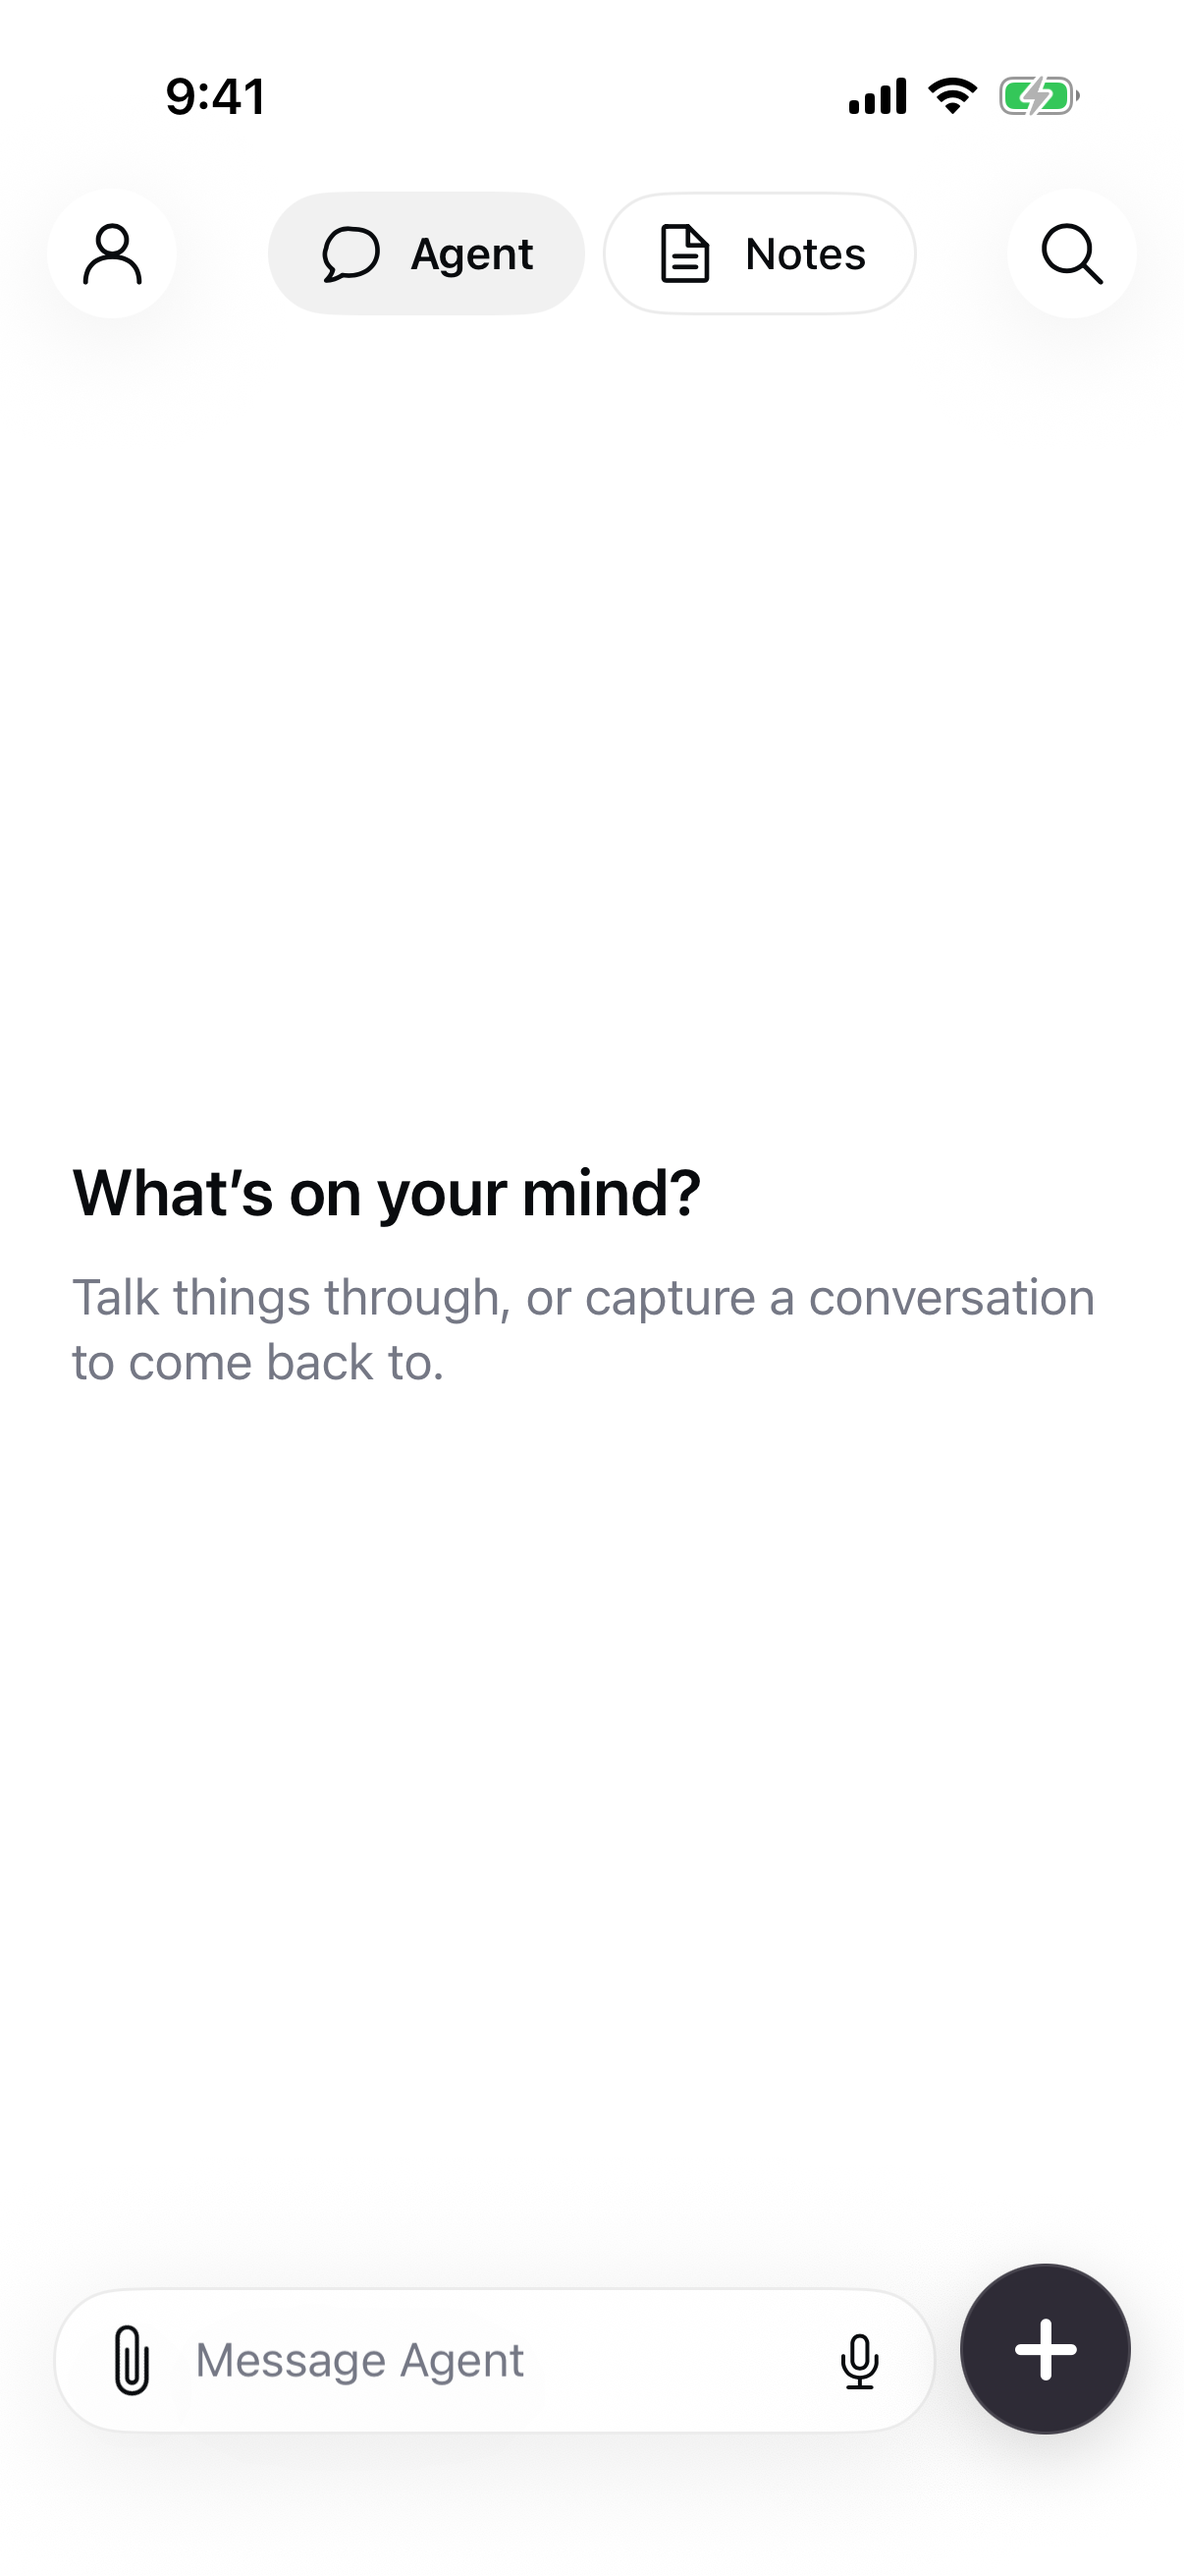
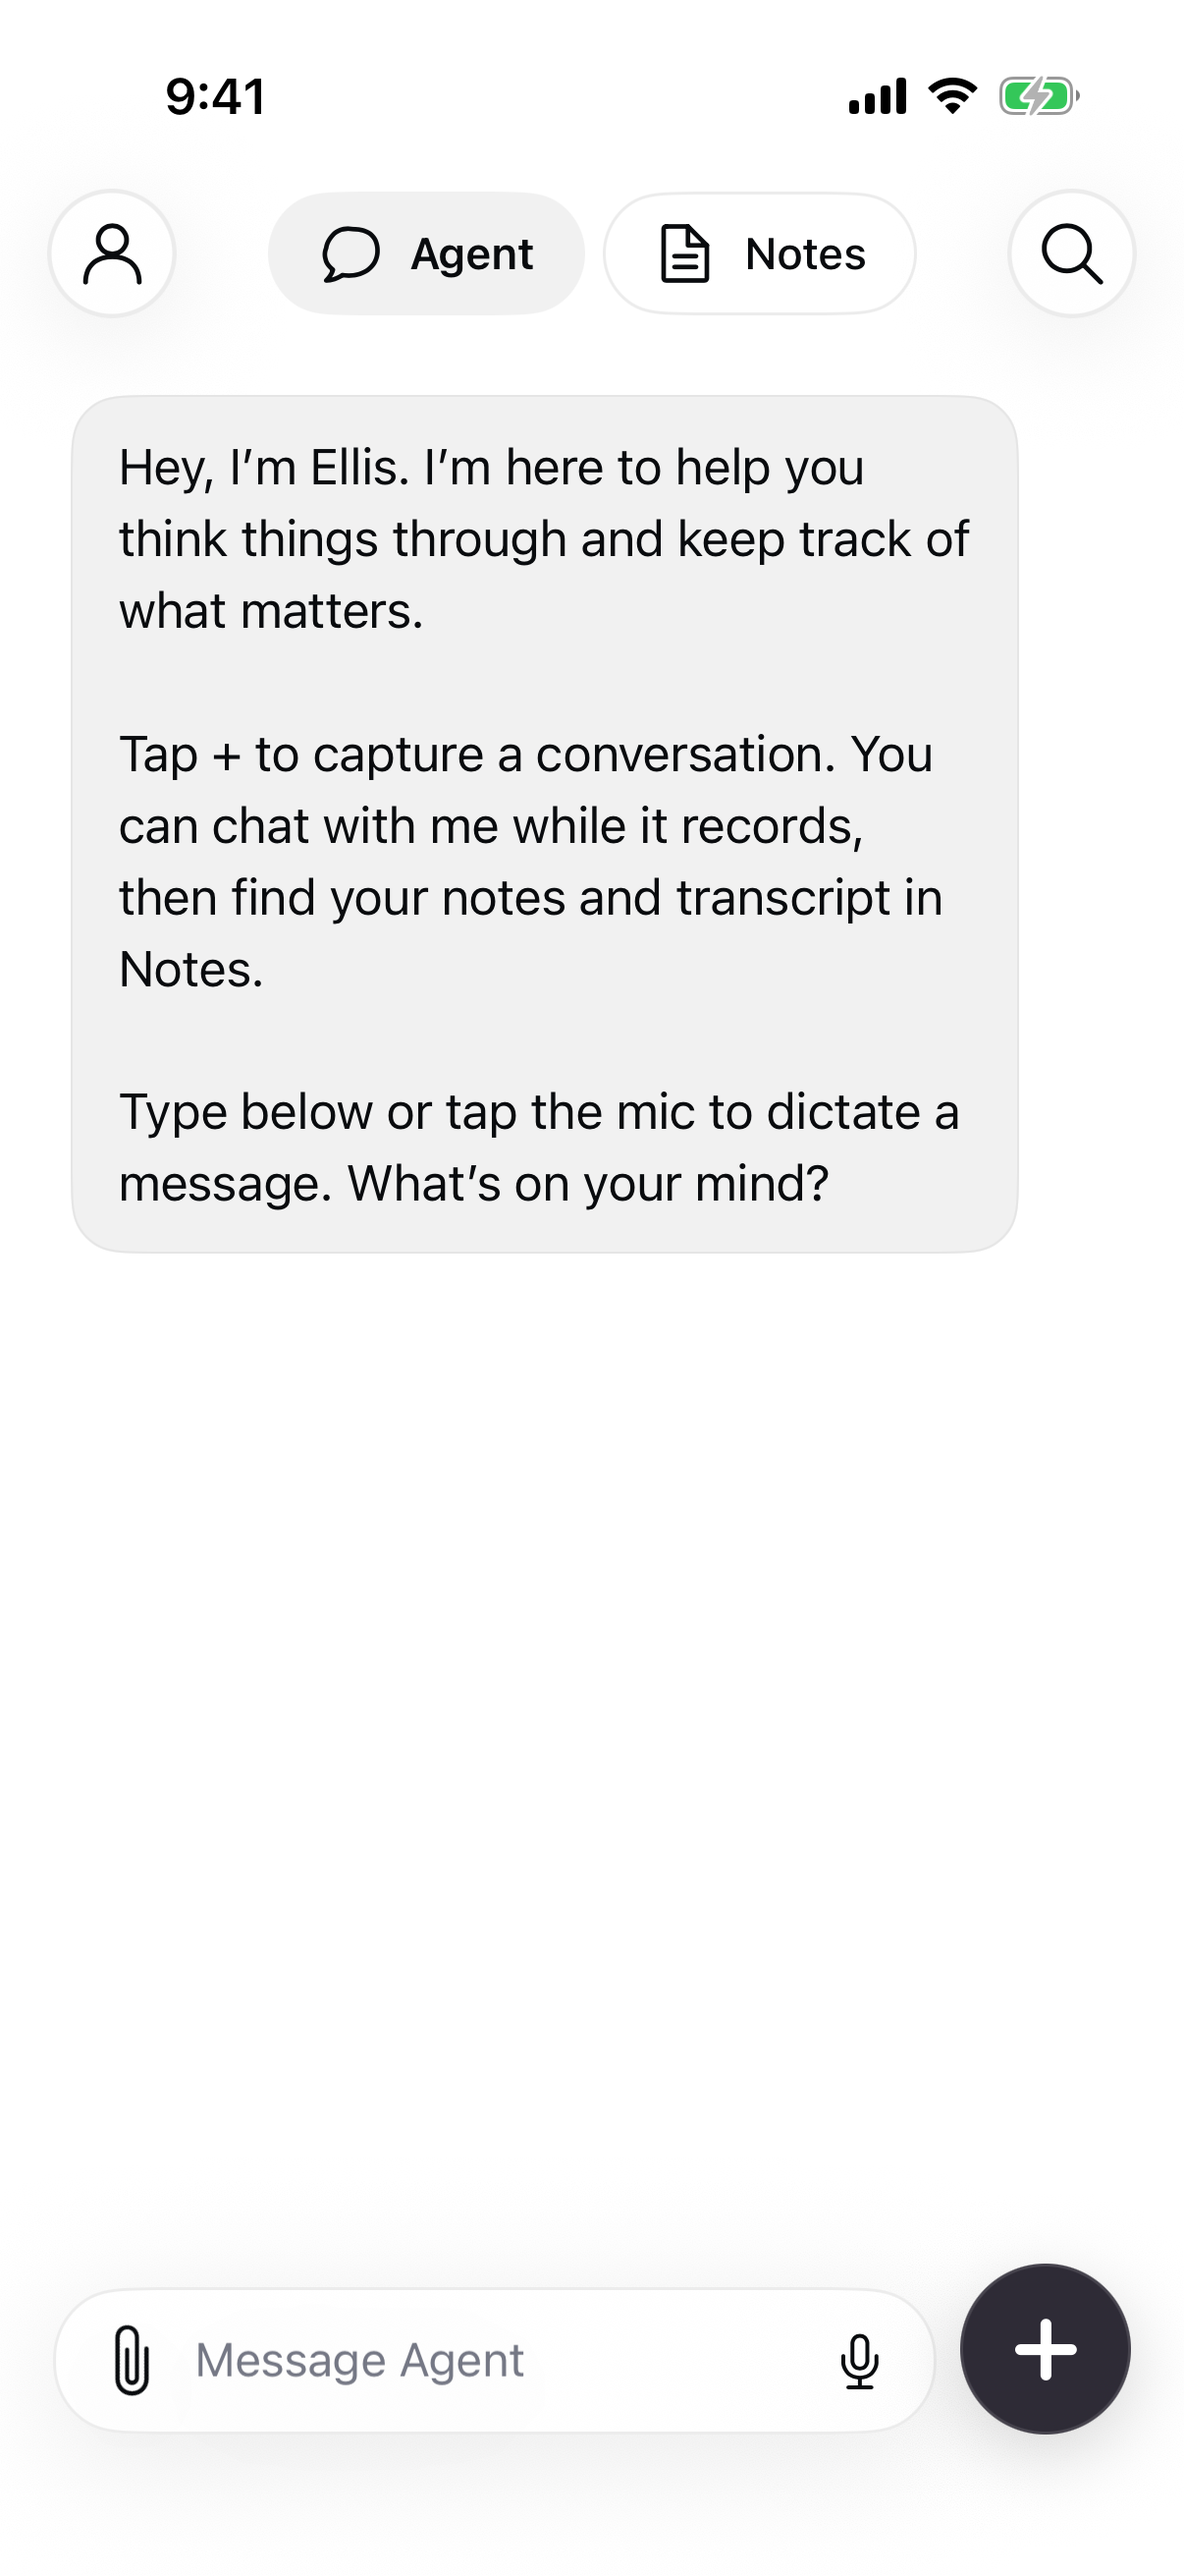
Introduce the companion with a first welcome message

diff --git a/docs/qa/native-experience/index.html b/docs/qa/native-experience/index.html
@@ -1,1 +1,1 @@
-<!doctype html><html lang="en"><meta charset="utf-8"><meta name="viewport" content="width=device-width,initial-scale=1"><title>Native UI screenshot gallery</title><style>body{margin:0;padding:32px;background:#f1f1f3;color:#111;font:16px system-ui}h1{font-size:28px}p{max-width:850px;line-height:1.6;color:#656570}main{display:grid;grid-template-columns:repeat(auto-fit,minmax(260px,1fr));gap:28px}figure{margin:0}figcaption{font-weight:600;margin:16px 0}img{display:block;width:100%;height:auto;border-radius:20px;box-shadow:0 8px 32px #00000012}a{color:inherit}</style><h1>Native UI · interaction polish</h1><p>Actual iPhone 17 Pro simulator screenshots, September 28, 2026. Click any screen for its full-resolution image. Sign-up and billing are unconnected previews. Capture screens include synthetic QA content and source-debug output. Physical-device acceptance remains pending.</p><main><figure><figcaption>Copy bubble preview</figcaption><a href="copy-preview.png"><img src="copy-preview.png" alt="Copy bubble preview" loading="lazy"></a></figure><figure><figcaption>Note · Share and Delete</figcaption><a href="note-context-actions.png"><img src="note-context-actions.png" alt="Note · Share and Delete" loading="lazy"></a></figure><figure><figcaption>Note · swipe Delete</figcaption><a href="note-swipe-delete.png"><img src="note-swipe-delete.png" alt="Note · swipe Delete" loading="lazy"></a></figure><figure><figcaption>Notes</figcaption><a href="home.png"><img src="home.png" alt="Notes" loading="lazy"></a></figure><figure><figcaption>Agent · empty</figcaption><a href="agent.png"><img src="agent.png" alt="Agent · empty" loading="lazy"></a></figure><figure><figcaption>Agent · capture QA</figcaption><a href="agent-capture.png"><img src="agent-capture.png" alt="Agent · capture QA" loading="lazy"></a></figure><figure><figcaption>Notes</figcaption><a href="notes.png"><img src="notes.png" alt="Notes" loading="lazy"></a></figure><figure><figcaption>Live transcript · QA fixture</figcaption><a href="live-transcript.png"><img src="live-transcript.png" alt="Live transcript · QA fixture" loading="lazy"></a></figure><figure><figcaption>Search</figcaption><a href="search.png"><img src="search.png" alt="Search" loading="lazy"></a></figure><figure><figcaption>Account</figcaption><a href="account.png"><img src="account.png" alt="Account" loading="lazy"></a></figure><figure><figcaption>Sign-up · preview</figcaption><a href="signup.png"><img src="signup.png" alt="Sign-up · preview" loading="lazy"></a></figure><figure><figcaption>Pricing · preview</figcaption><a href="pricing.png"><img src="pricing.png" alt="Pricing · preview" loading="lazy"></a></figure><figure><figcaption>Composer · typing</figcaption><a href="composer-send.png"><img src="composer-send.png" alt="Composer · typing" loading="lazy"></a></figure><figure><figcaption>Attachments</figcaption><a href="attachments.png"><img src="attachments.png" alt="Attachments" loading="lazy"></a></figure><figure><figcaption>Composer · multiline</figcaption><a href="composer-multiline.png"><img src="composer-multiline.png" alt="Multiline composer" loading="lazy"></a></figure><figure><figcaption>Dictation · synthetic audio level</figcaption><a href="dictation.png"><img src="dictation.png" alt="Dictation with trash, timer, waveform and Send" loading="lazy"></a></figure><figure><figcaption>Attachment menu</figcaption><a href="attachment-menu.png"><img src="attachment-menu.png" alt="Simplified attachment menu" loading="lazy"></a></figure></main></html>
+<!doctype html><html lang="en"><meta charset="utf-8"><meta name="viewport" content="width=device-width,initial-scale=1"><title>Native UI screenshot gallery</title><style>body{margin:0;padding:32px;background:#f1f1f3;color:#111;font:16px system-ui}h1{font-size:28px}p{max-width:850px;line-height:1.6;color:#656570}main{display:grid;grid-template-columns:repeat(auto-fit,minmax(260px,1fr));gap:28px}figure{margin:0}figcaption{font-weight:600;margin:16px 0}img{display:block;width:100%;height:auto;border-radius:20px;box-shadow:0 8px 32px #00000012}a{color:inherit}</style><h1>Native UI · interaction polish</h1><p>Actual iPhone 17 Pro simulator screenshots, September 28, 2026. Click any screen for its full-resolution image. Sign-up and billing are unconnected previews. Capture screens include synthetic QA content and source-debug output. Physical-device acceptance remains pending.</p><main><figure><figcaption>Copy bubble preview</figcaption><a href="copy-preview.png"><img src="copy-preview.png" alt="Copy bubble preview" loading="lazy"></a></figure><figure><figcaption>Note · Share and Delete</figcaption><a href="note-context-actions.png"><img src="note-context-actions.png" alt="Note · Share and Delete" loading="lazy"></a></figure><figure><figcaption>Note · swipe Delete</figcaption><a href="note-swipe-delete.png"><img src="note-swipe-delete.png" alt="Note · swipe Delete" loading="lazy"></a></figure><figure><figcaption>Notes</figcaption><a href="home.png"><img src="home.png" alt="Notes" loading="lazy"></a></figure><figure><figcaption>Agent · welcome</figcaption><a href="agent.png"><img src="agent.png" alt="Agent · welcome" loading="lazy"></a></figure><figure><figcaption>Agent · capture QA</figcaption><a href="agent-capture.png"><img src="agent-capture.png" alt="Agent · capture QA" loading="lazy"></a></figure><figure><figcaption>Notes</figcaption><a href="notes.png"><img src="notes.png" alt="Notes" loading="lazy"></a></figure><figure><figcaption>Live transcript · QA fixture</figcaption><a href="live-transcript.png"><img src="live-transcript.png" alt="Live transcript · QA fixture" loading="lazy"></a></figure><figure><figcaption>Search</figcaption><a href="search.png"><img src="search.png" alt="Search" loading="lazy"></a></figure><figure><figcaption>Account</figcaption><a href="account.png"><img src="account.png" alt="Account" loading="lazy"></a></figure><figure><figcaption>Sign-up · preview</figcaption><a href="signup.png"><img src="signup.png" alt="Sign-up · preview" loading="lazy"></a></figure><figure><figcaption>Pricing · preview</figcaption><a href="pricing.png"><img src="pricing.png" alt="Pricing · preview" loading="lazy"></a></figure><figure><figcaption>Composer · typing</figcaption><a href="composer-send.png"><img src="composer-send.png" alt="Composer · typing" loading="lazy"></a></figure><figure><figcaption>Attachments</figcaption><a href="attachments.png"><img src="attachments.png" alt="Attachments" loading="lazy"></a></figure><figure><figcaption>Composer · multiline</figcaption><a href="composer-multiline.png"><img src="composer-multiline.png" alt="Multiline composer" loading="lazy"></a></figure><figure><figcaption>Dictation · synthetic audio level</figcaption><a href="dictation.png"><img src="dictation.png" alt="Dictation with trash, timer, waveform and Send" loading="lazy"></a></figure><figure><figcaption>Attachment menu</figcaption><a href="attachment-menu.png"><img src="attachment-menu.png" alt="Simplified attachment menu" loading="lazy"></a></figure></main></html>

diff --git a/App/CompanionRootView.swift b/App/CompanionRootView.swift
@@ -68,10 +68,10 @@ struct CompanionRootView: View {
                     .font(.caption).padding(.horizontal, 20).accessibilityIdentifier("deletionPending")
             }
             ZStack {
-                chatContent.opacity(surface == "Companion" ? 1 : 0)
+                chatContent.opacity(surface == "Companion" ? 1 : 0).zIndex(surface == "Companion" ? 1 : 0)
                     .offset(x: reduceMotion || surface == "Companion" ? 0 : -10)
                     .allowsHitTesting(surface == "Companion").accessibilityHidden(surface != "Companion")
-                homeContent.opacity(surface == "Recordings" ? 1 : 0)
+                homeContent.opacity(surface == "Recordings" ? 1 : 0).zIndex(surface == "Recordings" ? 1 : 0)
                     .offset(x: reduceMotion || surface == "Recordings" ? 0 : 10)
                     .allowsHitTesting(surface == "Recordings").accessibilityHidden(surface != "Recordings")
             }.animation(reduceMotion ? nil : .easeInOut(duration: 0.18), value: surface)
@@ -187,6 +187,14 @@ struct CompanionRootView: View {
             }
     }
 
+    private static let welcomeMessage = """
+    Hey, I’m Ellis. I’m here to help you think things through and keep track of what matters.
+
+    Tap + to capture a conversation. You can chat with me while it records, then find your notes and transcript in Notes.
+
+    Type below or tap the mic to dictate a message. What’s on your mind?
+    """
+
     @ViewBuilder private var chatContent: some View {
         if let chat {
             @Bindable var chat = chat
@@ -196,7 +204,14 @@ struct CompanionRootView: View {
                         if chat.nextBefore != nil {
                             Button("Earlier messages") { chat.loadEarlier() }.disabled(chat.isBusy)
                         }
-                        if chat.turns.isEmpty, chat.response == nil { VStack(alignment: .leading, spacing: 12) { Text("What’s on your mind?").font(.title2.weight(.semibold)); Text("Talk things through, or capture a conversation to come back to.").foregroundStyle(ExperienceStyle.secondary) }.padding(.vertical, 48) }
+                        if chat.nextBefore == nil, chat.turns.first.map({ $0.sequence == 1 }) ?? true {
+                            Text(Self.welcomeMessage).modifier(ExperienceAgentBubble())
+                                .contextMenu {
+                                    Button("Copy", systemImage: "square.on.square") { ExperienceClipboard.copy(Self.welcomeMessage) }
+                                }
+                                .padding(.trailing, 32).frame(maxWidth: .infinity, alignment: .leading)
+                                .accessibilityIdentifier("agentWelcome")
+                        }
                         ForEach(chat.turns) { turn in
                             VStack(alignment: .leading, spacing: 8) {
                                 Text(turn.question).padding(.horizontal, 14).padding(.vertical, 12).experienceCard(radius: 18).frame(maxWidth: .infinity, alignment: .trailing)
@@ -238,7 +253,7 @@ struct CompanionRootView: View {
                             }
                         }
                     }.padding(24).frame(maxWidth: 760, alignment: .leading).frame(maxWidth: .infinity)
-                }.scrollDismissesKeyboard(.interactively).defaultScrollAnchor(.bottom).defaultScrollAnchor(chat.turns.isEmpty && chat.response == nil ? .center : .top, for: .alignment)
+                }.scrollDismissesKeyboard(.interactively).defaultScrollAnchor(.bottom).defaultScrollAnchor(.top, for: .alignment)
             }
         } else {
             ContentUnavailableView("Your companion", systemImage: "bubble.left", description: Text(sourceNotice ?? "Connecting…"))

diff --git a/UITests/CompanionPhoneUITests.swift b/UITests/CompanionPhoneUITests.swift
@@ -203,6 +203,9 @@ final class CompanionPhoneUITests: XCTestCase {
         defer { app.terminate() }
         let field = app.descendants(matching: .any).matching(identifier: "companionDraft").firstMatch
         XCTAssertTrue(field.waitForExistence(timeout: 5))
+        XCTAssertTrue(app.staticTexts["agentWelcome"].waitForExistence(timeout: 5))
+        XCTAssertFalse(app.staticTexts["What’s on your mind?"].exists)
+        snapshot(app, "Agent welcome message")
         app.buttons["startRecording"].tap()
         XCTAssertTrue(app.buttons["showActiveRecording"].waitForExistence(timeout: 5))
         field.tap(); field.typeText("What does Maya enjoy?")
@@ -215,6 +218,7 @@ final class CompanionPhoneUITests: XCTestCase {
         app.buttons["Dismiss Agent update"].tap()
         XCTAssertFalse(app.buttons["Dismiss Agent update"].exists)
         XCTAssertFalse(app.buttons["Copy answer"].exists)
+        app.swipeUp()
         app.staticTexts["companionAnswer"].firstMatch.press(forDuration: 0.8)
         XCTAssertTrue(app.buttons["Copy"].waitForExistence(timeout: 3))
         snapshot(app, "Copy bubble preview")

diff --git a/docs/native-experience-ui.md b/docs/native-experience-ui.md
@@ -163,3 +163,10 @@ Note action styling refinement: red Delete, blue Share, muted gray Copy. Native 
 Retained native swipe reveal/retraction and automatic action-button feedback to preserve gesture arbitration. Shared press feedback now responds in 100ms and releases smoothly over 240ms, with a softer opacity change. Note cards use restrained 0.985 press scaling; compact controls retain 0.96. Confirmed deletion animates the list update over 240ms. Reduce Motion disables custom scaling/animation while retaining opacity feedback; native transitions remain system-controlled.
 
 Simulator gallery test passed at `20260928-013247`, now also exercising swipe-close/reopen without navigation, Copy dismissal and delete/cancel alongside existing taps, menus and screen navigation. Captured native motion in `docs/qa/native-experience/note-actions-motion.mp4` and inspected a 4fps contact sheet covering swipe close/reveal, confirmation and row removal. This is simulator behavior evidence, not physical haptic/120Hz performance acceptance. Diff check passed; no paid calls or deployment.
+
+
+### Agent welcome message — September 28
+
+Replaced the centered placeholder with a normal agent bubble introducing Ellis, explaining deliberate + capture and Notes, and inviting typing or mic dictation. It stays at the start of the loaded conversation, including after the first turn, and supports long-press Copy. This is deterministic local onboarding copy, not a model call or a stored evidence-bearing turn; it appears only when the oldest history is loaded. Short conversations align at the top.
+
+The longer initial conversation exposed a hidden native Notes List competing with chat hit-testing. Active-page z-order now follows the selected surface while preserving both page instances. The first two runs reproduced an inaccessible reply-copy target; active-page ordering resolved it. Capture/reply Copy/source/reopen flow passed at `20260928-013917`, Notes swipe/menu/attachment/gallery regression passed at `20260928-014015`. Welcome screenshot inspected and updated in the gallery. Diff check passed. No paid calls or deployment.

diff --git a/docs/engineering-principles.md b/docs/engineering-principles.md
@@ -276,3 +276,5 @@ Founder UI refinement, September 28: Notes uses stacked title/preview/time cards
 Founder note-action refinement, September 28: swipe Delete is red, Share blue, Copy the prior muted gray. Use simple outline symbols with consistent weight: trash, curved share arrow, overlapping squares for Copy. The same symbols appear in the long-press menu; retain native destructive-menu semantics.
 
 Founder refinement: hide visible captions beneath the swipe circles; preserve their accessibility labels and the long-press menu names.
+
+Founder onboarding refinement, September 28: replace the empty-chat placeholder with a first agent message introducing the companion, deliberate capture/Notes and composer dictation. Render it as an ordinary reply at the beginning of the main conversation, not as a separate onboarding screen or a repeated author heading.
